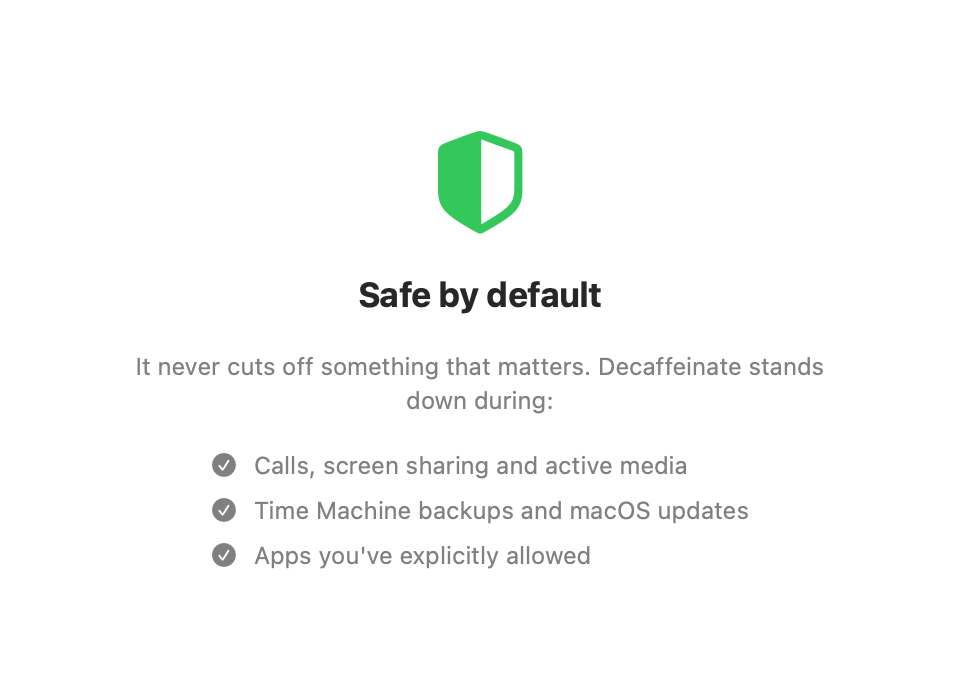
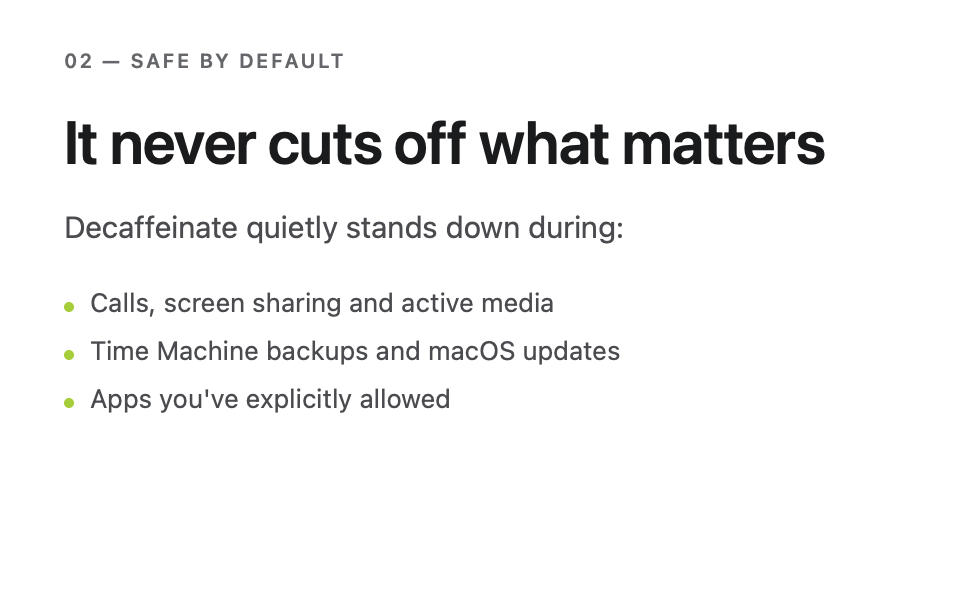
Restyle (Part C.3): Settings tabs + refreshed README screenshots
- Settings keep native macOS Form grouping but adopt Harf tokens: warning/positive
  status text (was orange/tint), rule policy → HarfPill (Allowed/Ignored), History
  header in Harf type with a hairline, ink-token row colours.
- About view rebuilt around the new crescent DecaffeinateMark + Harf type
  (display/lede/eyebrow); drops the coffee-cup SF Symbol.
- Regenerated assets/onboarding.png + screenshot-menu.png to the new Harf design.

Completes Part C (full restyle). 127 tests green; lint clean.

Changed region(s): [[0.0625, 0.18, 0.875, 0.6], [0.0625, 0.63, 0.7812, 0.84], [0.0625, 0.09, 0.375, 0.12]]

diff --git a/Sources/Decaffeinate/Views/SettingsView.swift b/Sources/Decaffeinate/Views/SettingsView.swift
@@ -67,7 +67,7 @@ private struct GeneralSettings: View {
                     Text(
                         "This is at least your normal idle time, so it has no effect — lower it to sleep sooner on battery."
                     )
-                    .font(.caption).foregroundStyle(.orange)
+                    .font(.caption).foregroundStyle(Color.warning)
                 }
             }
 
@@ -159,9 +159,9 @@ private struct RulesSettings: View {
                                     .font(.caption).foregroundStyle(.secondary)
                             }
                             Spacer()
-                            Text(rule.policy.shortLabel)
-                                .font(.caption)
-                                .foregroundStyle(rule.policy.isCurrentlyAllowing ? .green : .orange)
+                            HarfPill(
+                                label: rule.policy.shortLabel,
+                                variant: rule.policy.isCurrentlyAllowing ? .positive : .neutral)
                             Button(role: .destructive) {
                                 rules.remove(rule)
                             } label: {
@@ -221,7 +221,7 @@ private struct ScheduleSettings: View {
                             Label(
                                 "Paused — \(paused)", systemImage: "exclamationmark.triangle.fill"
                             )
-                            .foregroundStyle(.orange)
+                            .foregroundStyle(Color.warning)
                         } else {
                             Label(
                                 "Holding awake until \(ScheduleEngine.timeLabel(until))",
@@ -250,7 +250,7 @@ private struct ScheduleSettings: View {
                 "Start and end are the same — this schedule does nothing.",
                 systemImage: "exclamationmark.triangle"
             )
-            .font(.caption).foregroundStyle(.orange)
+            .font(.caption).foregroundStyle(Color.warning)
         } else if ScheduleEngine.isWithinActiveHours(
             Date(), start: st.activeHoursStart, end: st.activeHoursEnd)
         {
@@ -258,7 +258,7 @@ private struct ScheduleSettings: View {
                 "Active now — auto-sleep is paused until \(ScheduleEngine.hourLabel(st.activeHoursEnd))",
                 systemImage: "pause.circle.fill"
             )
-            .font(.caption).foregroundStyle(.tint)
+            .font(.caption).foregroundStyle(Color.positive)
         } else {
             Label(
                 "Outside active hours — auto-sleep is on. Next pause at \(ScheduleEngine.hourLabel(st.activeHoursStart)).",
@@ -291,33 +291,32 @@ private struct AboutView: View {
     @EnvironmentObject var appState: AppState
 
     var body: some View {
-        VStack(spacing: 10) {
-            Image(systemName: "cup.and.saucer.fill")
-                .font(.system(size: 40))
-                .foregroundStyle(.tint)
-            Text("Decaffeinate").font(.title2.bold())
+        VStack(spacing: Space.s3) {
+            DecaffeinateMark(size: 56)
+            Text("Decaffeinate").font(HarfFont.h2).foregroundStyle(Color.ink1)
             Text("The truth about what's keeping your Mac awake — and the power to make it sleep.")
-                .font(.callout)
+                .font(HarfFont.lede)
                 .multilineTextAlignment(.center)
-                .foregroundStyle(.secondary)
+                .foregroundStyle(Color.ink2)
+                .fixedSize(horizontal: false, vertical: true)
                 .padding(.horizontal)
-            Text("Version \(AppInfo.version) · MIT Licensed")
-                .font(.caption)
-                .foregroundStyle(.tertiary)
+            Text("Version \(AppInfo.version)").eyebrow(.ink4)
             Link(
                 "github.com/harf-promo/decaffeinate",
                 destination: URL(string: "https://github.com/harf-promo/decaffeinate")!
             )
-            .font(.caption)
+            .font(HarfFont.caption)
+            .tint(Color.accentText)
             Button("Show welcome again") {
                 OnboardingPresenter.shared.present(settingsStore: appState.settingsStore)
             }
             .buttonStyle(.link)
-            .font(.caption)
-            .padding(.top, 4)
+            .font(HarfFont.caption)
+            .tint(Color.ink2)
+            .padding(.top, Space.s1)
         }
         .frame(maxWidth: .infinity, maxHeight: .infinity)
-        .padding()
+        .padding(Space.s5)
     }
 }
 
@@ -341,29 +340,31 @@ private struct HistorySettings: View {
                     )
                 )
             } else {
-                VStack(alignment: .leading, spacing: 4) {
+                VStack(alignment: .leading, spacing: Space.s1) {
                     Text(
                         "\(history.events.count) forced sleep\(history.events.count == 1 ? "" : "s") · \(history.batteryCount) on battery"
                     )
-                    .font(.headline)
+                    .font(HarfFont.title)
+                    .foregroundStyle(Color.ink1)
                     Text(
                         "≈ \(history.estimatedMinutesAvoided) min of needless wake avoided (rough estimate)."
                     )
                     .font(.caption)
-                    .foregroundStyle(.secondary)
+                    .foregroundStyle(Color.ink3)
                 }
-                .padding(12)
-                Divider()
+                .padding(Space.s3)
+                Hairline()
                 List {
                     ForEach(history.events) { event in
-                        HStack(spacing: 8) {
+                        HStack(spacing: Space.s2) {
                             Image(systemName: event.onBattery ? "battery.50" : "powerplug")
-                                .foregroundStyle(.secondary)
+                                .foregroundStyle(Color.ink3)
                                 .frame(width: 18)
                             VStack(alignment: .leading, spacing: 1) {
-                                Text(event.reason).font(.callout).lineLimit(1)
+                                Text(event.reason).font(HarfFont.body).foregroundStyle(Color.ink1)
+                                    .lineLimit(1)
                                 Text(event.date.formatted(date: .abbreviated, time: .shortened))
-                                    .font(.caption).foregroundStyle(.secondary)
+                                    .font(.caption).foregroundStyle(Color.ink3)
                             }
                             Spacer()
                         }